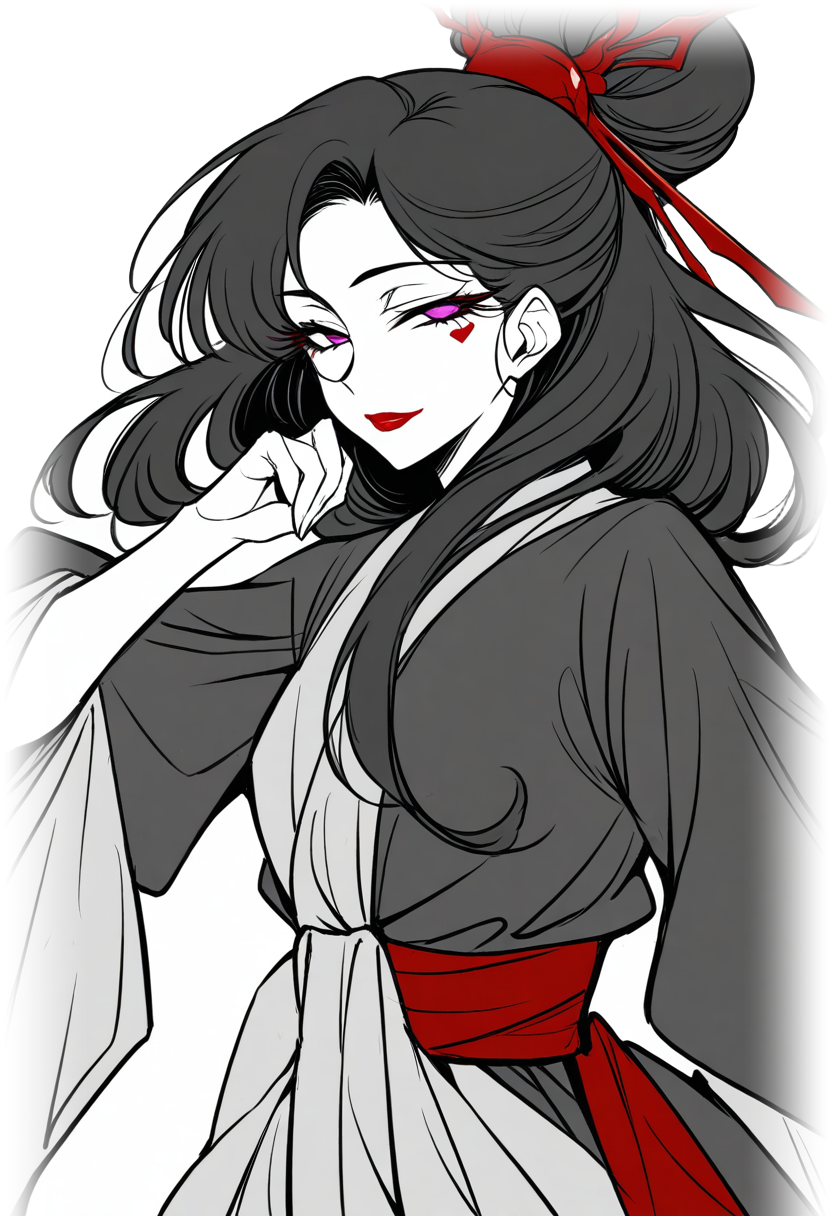
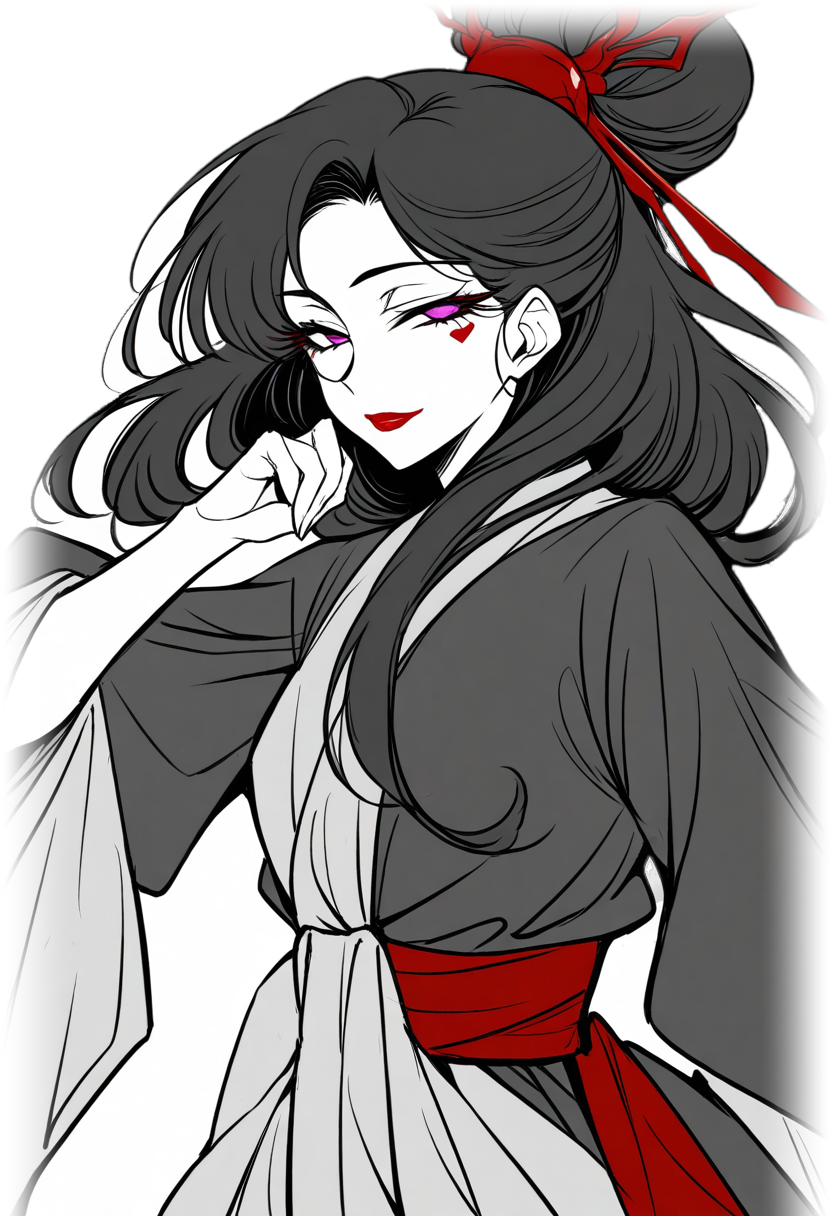
0.4.29: 인물 22장 새 화풍, 누끼 다시(흰 테두리 벗기기), 갈림길 인장 위치
Claude-Session: https://claude.ai/code/session_01VNwHYr6PKmgoG2ds8pmuJ4

diff --git a/tools/char_nukki.py b/tools/char_nukki.py
@@ -31,6 +31,15 @@ def nukki(src, dst, flip=False):
         hs = ndi.sum(holes, hl, range(1, hn + 1))
         small = np.zeros(hn + 1, bool); small[1:] = hs < 2500
         a = np.where(small[hl], 1.0, a)
+    # 1.5) 바깥에서부터 흰 테두리 벗기기: 투명한 곳에 맞닿은 '거의 흰' 픽셀을 한 겹씩 지운다(최대 10겹).
+    #      검은 윤곽선을 만나면 멈추므로 흰 옷 안쪽은 남는다. 스티커처럼 둘린 흰 띠를 없앤다.
+    lum = rgb.mean(-1); sat = rgb.max(-1) - rgb.min(-1)
+    whiteish = (lum > 0.86) & (sat < 0.12)
+    for _ in range(10):
+        outside = a < 0.35
+        touch = ndi.binary_dilation(outside, iterations=1) & ~outside & whiteish
+        if not touch.any(): break
+        a = np.where(touch, 0.0, a)
     # 2) 알파 1px 깎고 살짝 흐림
     a = ndi.grey_erosion(a, size=(3, 3))
     a = ndi.gaussian_filter(a, 0.6)

diff --git a/unity-src/MolakMark.cs b/unity-src/MolakMark.cs
@@ -65,7 +65,7 @@ public class MolakMark : MonoBehaviour
         float a = e < 0.35f ? e / 0.35f : e > Dur - 0.7f ? (Dur - e) / 0.7f : 1f;
         a = Mathf.Clamp01(a);
         float drop = (1f - Mathf.SmoothStep(0f, 1f, Mathf.Clamp01(e / 0.35f))) * -14f * u;
-        float bw = 960 * u, bh = 160 * u, bx = (w - bw) / 2f, by = h * 0.17f + drop;
+        float bw = 960 * u, bh = 160 * u, bx = (w - bw) / 2f, by = h - MolakLayout.BagStripH * u - bh - 40 * u + drop;   // 0.4.29: 삽화를 가리지 않게 아래쪽(행낭 띠 위)으로
         var g0 = GUI.color;
         // 먹띠(가운데 짙고 양끝 옅게)
         for (int i = 0; i < 12; i++)

diff --git a/tools/review/CHANGES_0.4.3.md b/tools/review/CHANGES_0.4.3.md
@@ -1,5 +1,10 @@
 # 몰락검신 0.4.3 — 바뀐 것
 
+**0.4.29(2026-11-13, 안드로이드 코드 55)**: 인물 22장 전부 새 화풍, 누끼 다시. 빌드 `몰락검신_v0.4.29.apk`, 드라이브 Build_Apk.
+- 남캐·어르신 13장도 여캐와 같은 화풍(흑백에 붉은 포인트, 애니풍, 허벅지 위까지)으로 새로 뽑았다: 진백, 하진무, 곽산, 교주, 복면 노인, 노인의 맨얼굴, 집법전주, 오치, 교나, 호치, 용개, 백초 할멈, 쥐눈이 장. 이제 인물 그림 22장이 한 화풍이다. 원본은 `unity-art-v12`, 생성 기록은 VNArt/molak/v12.
+- 누끼 다시(`tools/char_nukki.py`, 22장 전부): ① 바깥에서부터 흰 테두리를 한 겹씩 벗긴다(검은 윤곽선을 만나면 멈춤 — 스티커처럼 둘린 흰 띠 제거) ② 가장자리에 섞인 흰 바탕 색을 걷어 낸다 ③ 알파를 1px 깎고 살짝 흐려 헤일로를 없앤다 ④ 떠돌이 얼룩 조각을 지우고 인물 안쪽 작은 구멍은 메운다 ⑤ 인물이 그림 테두리에 닿아 잘린 곳만 부드럽게 흐린다. 소아(미소)는 안대가 반대쪽이라 좌우를 뒤집었다.
+- 갈림길 인장(岐)이 삽화의 얼굴을 가리던 것: 화면 아래쪽, 행낭 띠 바로 위로 옮겼다.
+
 **0.4.28(2026-11-12, 안드로이드 코드 54)**: 여캐 새 그림, 인물 뒤로 배경이 비치던 문제, 행낭 띠 채우기, 잔버그. 빌드 `몰락검신_v0.4.28.apk`, 드라이브 Build_Apk.
 - 여캐 9장을 새로 뽑았다(animagine-xl 4.0, 흑백에 붉은 포인트, 애니풍 얼굴, 허벅지 위까지 잡아 얼굴을 크게): 소아(기본·분노·슬픔·미소), 암향(기본·부드러움·독), 청묘(승복·검 든 모습). 그림 가장자리에서 머리칼·소매가 잘려 네모로 보이지 않게 좌우·위를 부드럽게 흐렸다. 원본은 `unity-art-v12`, 생성 기록은 VNArt/molak/v12.
 - 인물 뒤로 배경이 비치던 문제: 인물을 배경 위에 '곱하기'로 얹어서, 얼굴·흰 옷처럼 밝은 데로 뒤 배경 선이 보였다. 게다가 예전 인물 그림은 바탕을 지울 때 밝은 곳을 투명하게 만들어 인물 안쪽까지 구멍이 나 있었다. 인물은 보통 알파로 불투명하게 그리고, 남캐 13장도 바깥 바탕만 투명하고 안쪽은 채워지도록 다시 오렸다(`tools/char_matte.py`). 인물이 불투명해진 만큼 뒤 풍경은 덜 지운다(45% → 70%).
